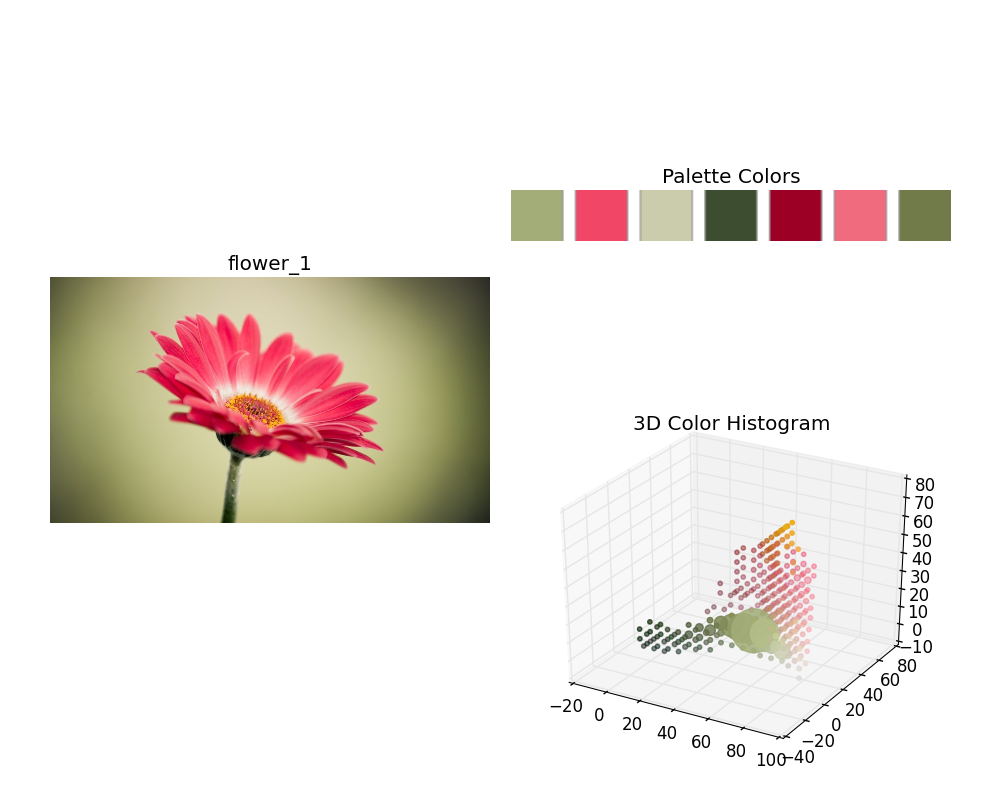
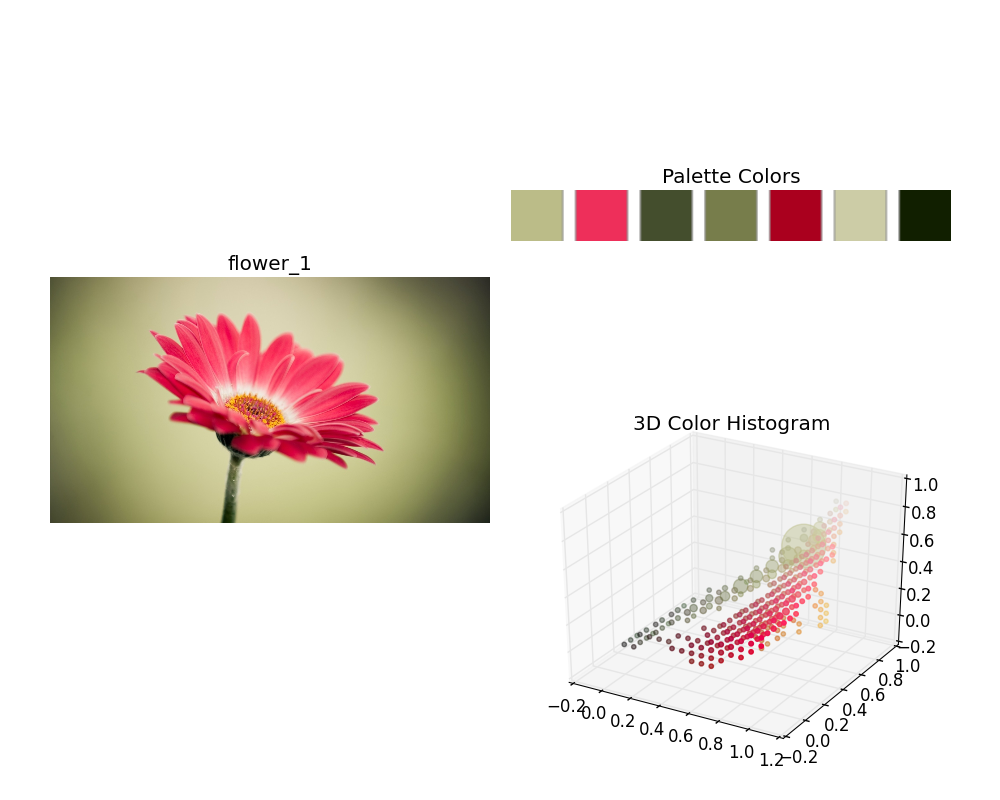
Release version 0.5.

diff --git a/palette/core/palette_selection.py b/palette/core/palette_selection.py
@@ -26,7 +26,7 @@ class PaletteSelection:
     ## Constructor
     #  @param color_samples     input color samples.
     #  @param color_densities   color densities (normalized frequencies).
-    def __init__(self, color_samples, color_densities, num_colors=7, sigma=80.0, color_space="rgb"):
+    def __init__(self, color_samples, color_densities, num_colors=7, sigma=70.0, color_space="rgb"):
         self._color_samples = color_samples
         self._color_densities = color_densities
         self._num_colors = num_colors
@@ -114,7 +114,9 @@ def runPaletteSelectionResult(image_file):
     plt.imshow(C_32F)
     plt.axis('off')
 
-    hist3d = Hist3D(Lab_32F, num_bins=16, color_space="Lab")
+    color_space = "rgb"
+
+    hist3d = Hist3D(C_32F, num_bins=16, color_space=color_space)
     color_samples = hist3d.colorSamples()
 
     color_densities = hist3d.colorDensities()
@@ -123,7 +125,7 @@ def runPaletteSelectionResult(image_file):
     plt.title("3D Color Histogram")
     hist3d.plotColorSamples(ax)
 
-    palette_selection = PaletteSelection(color_samples, color_densities, color_space="Lab")
+    palette_selection = PaletteSelection(color_samples, color_densities, color_space=color_space)
     palette_selection.compute()
 
     plt.subplot(222)
@@ -147,7 +149,8 @@ def runPaletteSelectionResults(data_names, data_ids):
 
 if __name__ == '__main__':
     data_names = ["apple", "tulip", "flower"]
-    data_ids = [0, 1, 2]
+    data_names = ["mip"]
+    data_ids = [0, 1, 2, 3]
 
     runPaletteSelectionResults(data_names, data_ids)
 
